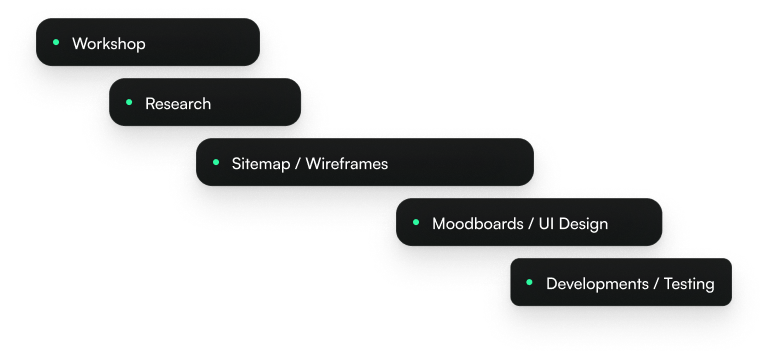
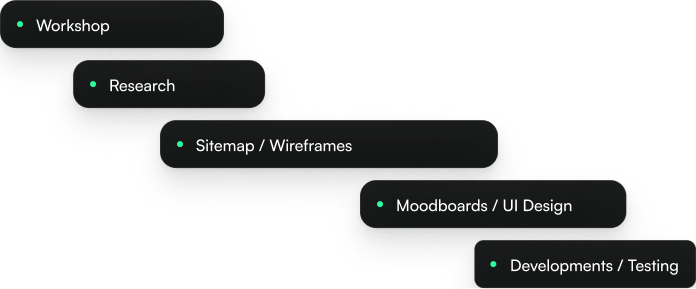
casecard alignment fix

Changed region(s): [[0.0, 0.0, 1.0, 1.0]]

diff --git a/components/CaseCard.jsx b/components/CaseCard.jsx
@@ -84,9 +84,9 @@ const OPTIONS = { slidesToScroll: 2, };
           <div className={style.section}>
             <Image src={logo} alt="logo" className={style.logo} />
             <div className={style.desktop}>
-              <h1 className={style.topheading}>{heading}</h1>
+              <h1 className={`${style.topheading} font-cabinet`}>{heading}</h1>
               <div className={style.section2}>
-                <ul className={style.list1}>
+                <ul className={`${style.list1} font-satoshi`}>
                   <div className={style.listcontainer}>
                     <li>
                       <span className={style.dot}>●</span>Industry
@@ -126,7 +126,7 @@ const OPTIONS = { slidesToScroll: 2, };
             </div>
           </div>
           <div className={style.section1}>
-            <ul className={style.list1}>
+            <ul className={`${style.list1} font-satoshi`}>
               <div className={style.listcontainer}>
                 <li>
                   <span className={style.dot}>●</span>Industry
@@ -162,11 +162,13 @@ const OPTIONS = { slidesToScroll: 2, };
           {/* project overview */}
           <div className={style.section}>
             <div className={style.desktop}>
-              <h1 className={style.title}>Project Overview</h1>
+              <h1 className={`${style.title} font-cabinet`}>
+                Project Overview
+              </h1>
 
-              <p className={style.content2}>{overview}</p>
+              <p className={`${style.content2} font-satoshi`}>{overview}</p>
             </div>
-            <p className={style.content}>{overview}</p>
+            <p className={`${style.content} font-satoshi`}>{overview}</p>
             <Image
               src={timelinemobile}
               alt="Timeline"
@@ -176,10 +178,12 @@ const OPTIONS = { slidesToScroll: 2, };
           </div>
           <div className={style.section}>
             <div className={style.desktop}>
-              <h1 className={style.title}>The Challenge</h1>
-              <p className={style.content2}>{challengetext}</p>
+              <h1 className={`${style.title} font-cabinet`}>The Challenge</h1>
+              <p className={`${style.content2} font-satoshi`}>
+                {challengetext}
+              </p>
             </div>
-            <p className={style.content}>{challengetext}</p>
+            <p className={`${style.content} font-satoshi`}>{challengetext}</p>
             <Image
               src={challenge}
               alt="challenge"
@@ -188,12 +192,12 @@ const OPTIONS = { slidesToScroll: 2, };
           </div>
           {/* Goals */}
           <div className={style.section}>
-            <h1 className={style.title}>Goals</h1>
-            <div className={style.one}>
+            <h1 className={`${style.title} font-cabinet`}>Goals</h1>
+            <div className={`${style.one} font-satoshi`}>
               <GoalCard text={goal1} />
               <GoalCard text={goal2} />
             </div>
-            <div className={style.two}>
+            <div className={`${style.two} font-satoshi`}>
               <GoalCard text={goal3} />
               <GoalCard text={goal4} />
             </div>
@@ -202,19 +206,19 @@ const OPTIONS = { slidesToScroll: 2, };
           {/* our approach */}
           <div className={style.section}>
             <div className={style.desktop}>
-              <h1 className={style.title}>The Approach</h1>
-              <p className={style.content2}>{approachtext}</p>
+              <h1 className={`${style.title} font-cabinet`}>The Approach</h1>
+              <p className={`${style.content2} font-satoshi`}>{approachtext}</p>
             </div>
-            <p className={style.content}>{approachtext}</p>
+            <p className={`${style.content} font-satoshi`}>{approachtext}</p>
             <Image src={approach} alt="approach" className={style.approach} />
           </div>
 
           <div className={style.section}>
             <div className={style.desktop}>
-              <h1 className={style.title}>Outcome</h1>
-              <p className={style.content2}>{outcome}</p>
+              <h1 className={`${style.title} font-cabinet`}>Outcome</h1>
+              <p className={`${style.content2} font-satoshi`}>{outcome}</p>
             </div>
-            <p className={style.content}>{outcome}</p>
+            <p className={`${style.content} font-satoshi`}>{outcome}</p>
             <div className={style.outer}>
               <Image src={landing} alt="landing" className={style.hero} />
             </div>

diff --git a/app/contact/page.jsx b/app/contact/page.jsx
@@ -8,20 +8,28 @@ import Footer from "../../components/Footer"
 function Contact(){
     return (
       <>
-      <Navbar/>
+        <Navbar />
         <div className={style.contactcontainer}>
-            <Image src={gradientmobile} className={style.gradientmobile}  alt="gradientmobile" />
-            <Image src={gradientdesktop} className={style.gradientdesktop} alt="gradientdesktop"/>
+          <Image
+            src={gradientmobile}
+            className={style.gradientmobile}
+            alt="gradientmobile"
+          />
+          <Image
+            src={gradientdesktop}
+            className={style.gradientdesktop}
+            alt="gradientdesktop"
+          />
           <div className={style.potrait}>
-            <h1>
+            <h1 className="font-satoshi">
               <span className={style.dot}>●</span>
               Contact
             </h1>
-            <h2>Let's create something extraordinary together.</h2>
+            <h2 className="font-cabinet">Let's create something extraordinary together.</h2>
             <Image src={contact} alt="contact" />
           </div>
 
-          <form action="" className={style.contactform}>
+          <form action="" className={`${style.contactform} font-satoshi`}>
             <div className={style.formsection}>
               <label htmlFor="Name">Name</label>
               <input type="text" placeholder="Enter your Name" />
@@ -35,10 +43,10 @@ function Contact(){
               <textarea type="text" placeholder="Enter Message" />
             </div>
 
-            <input type="submit" className={style.vutton}/>
+            <input type="submit" className={style.vutton} />
           </form>
         </div>
-        <Footer/>
+        <Footer />
       </>
     );
 }

diff --git a/app/CaseStudies/page.jsx b/app/CaseStudies/page.jsx
@@ -8,7 +8,7 @@ import VPN from "../../assets/VPN.png"
 import Oruva from "../../assets/Oruva.png"
 import Nest from "../../assets/Nest.png"
 import Ivory from "../../assets/ivory.png"
-
+import Footer from "../../components/Footer"
 function CaseStudies(){
     return (
       <>
@@ -21,11 +21,11 @@ function CaseStudies(){
           />
           <Image src ={casegrad} alt="gradient desktop" className={style.gradientdesktop}/>
           <div className={style.head}>
-            <h1>
+            <h1 className="font-satoshi">
               <span className={style.dot}>●</span>
               Case Studies
             </h1>
-            <h2>Projects Crafted With Clear Purpose</h2>
+            <h2 className="font-cabinet">Projects Crafted With Clear Purpose</h2>
           </div>
           <div className={style.secondcontainer}>
             <FeatureCard
@@ -62,6 +62,7 @@ function CaseStudies(){
             />
           </div>
         </div>
+        <Footer/>
       </>
     );
 }

diff --git a/components/CommonCarausal.jsx b/components/CommonCarausal.jsx
@@ -69,7 +69,7 @@ const EmblaCarousel = ({ slides, options }) => {
     <section className="relative w-full">
       {/* Viewport */}
       <div className="overflow-hidden w-full " ref={emblaRef}>
-        <div className="flex gap-2 justify-items-start">
+        <div className="flex gap-2  justify-items-start">
           {slides.map((slide, index) => (
             <div
               key={index}

diff --git a/app/page.jsx b/app/page.jsx
@@ -58,7 +58,7 @@ export default function Home() {
           onError={(err) => console.error("Spline failed:", err)}
         />
       </div> */}
-      <HeroSpline />
+      {/* <HeroSpline /> */}
 
       <Stats />
       <Services />

diff --git a/css/CaseCard.module.css b/css/CaseCard.module.css
@@ -74,6 +74,7 @@ width: fit-content;
 .dot{
     color: #29F99E;
     margin-right: 0.5rem;
+    font-family: none;
 }
 .listcontainer{
     display: flex;

diff --git a/css/contact.module.css b/css/contact.module.css
@@ -27,6 +27,7 @@
   color: #22c55e; /* green */
   font-size: 1rem;
   margin-right: 0.5rem;
+  font-family: none;
   
 }
 .potrait h1{
